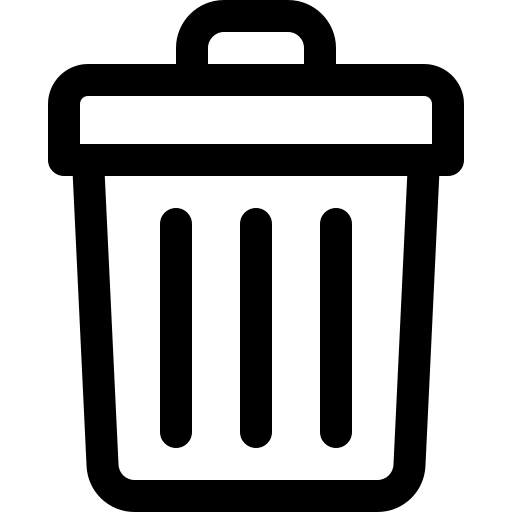
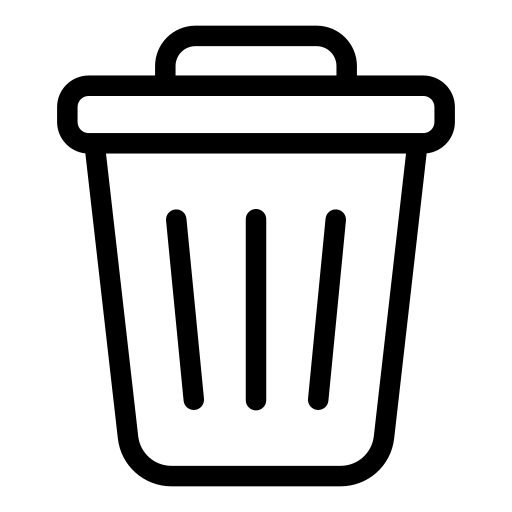
feat(frontend): add remove mod methods

diff --git a/frontend/src/views/DownloadsView.vue b/frontend/src/views/DownloadsView.vue
@@ -3,7 +3,10 @@ import {
 	DeleteSavedMod,
 	GetYamlConfig,
 	RemoveFromYamlConfig,
+	RemoveFromDownloads,
+	GetSavedMods
 } from "@wailsjs/go/functools/FuncService";
+import { RemoveAllMods } from "@wailsjs/go/filetools/FileService"
 import { ShowInfoMessage } from "@wailsjs/go/main/App";
 import { onMounted, ref } from "vue";
 import { getMinecraftDownloadFileName, uniqueBy } from "@/api/utils";
@@ -12,14 +15,19 @@ import ModDisk from "@/components/ModDepends/ModDisk.vue";
 import ModsList from "@/components/Mods/ModsList.vue";
 import View from "@/components/View/View.vue";
 import AppHeader from "@/layouts/AppHeader.vue";
+import TrashIcon from "@/assets/images/trash.png"
+import ImageButton from "@/components/Buttons/ImageButton.vue";
 import type { MinecraftMod, ModDependency } from "@/types";
 
 const savedMods = ref<MinecraftMod[]>([]);
 const depends = ref<ModDependency[]>([]);
 
+const savedModsOnDisk = ref<string[]>([]);
+
 const loadDownloadedMods = async () => {
 	try {
 		const mods = await GetYamlConfig("downloads");
+		savedModsOnDisk.value = await GetSavedMods();
 		savedMods.value = mods ?? [];
 
 		if (savedMods.value !== null) {
@@ -46,12 +54,34 @@ const removeFromDownloads = async (mod: MinecraftMod) => {
 	}
 };
 
+const removeAll = async () => {
+	try {
+		await RemoveFromDownloads();
+		await RemoveAllMods();
+		savedMods.value = [];
+		depends.value = [];
+		savedModsOnDisk.value = [];
+		await ShowInfoMessage("Успех", "Моды удалены");
+	} catch (err) {
+		console.log("Ошибка при очистке", err);
+	}
+}
+
+const onDeleteModOnDisk = async (modName: string) => {
+	savedModsOnDisk.value = savedModsOnDisk.value.filter((m) => m !== modName);
+	await DeleteSavedMod(modName);
+	await ShowInfoMessage("Успех", "Мод успешно удалён");
+};
+
 onMounted(loadDownloadedMods);
 </script>
 
 <template>
   <AppHeader />
   <View min-height="100vh">
+	<div class="filters">
+		<ImageButton :img="TrashIcon" border-radius="50%" @click="removeAll" title="Удалить всё"/>
+	</div>
     <div class="downloads-list">
       <ModsList
         v-if="savedMods.length > 0"
@@ -59,7 +89,7 @@ onMounted(loadDownloadedMods);
         :onDelete="removeFromDownloads"
       />
       <ModDependsList v-if="depends.length > 0" :depends="depends"/>
-	  <ModDisk/>
+	  <ModDisk :saved-mods="savedModsOnDisk" @delete="onDeleteModOnDisk"/>
     </div>
   </View>
 </template>
@@ -78,6 +108,20 @@ onMounted(loadDownloadedMods);
   font-size: 18px;
   color: white;
   padding: 10px;
+}
+
+.filters {
+  display: flex;
+  flex-direction: row;
+  justify-content: flex-end;
+  gap: 5px;
+
+  background-color: rgb(41, 48, 47);
+  border-radius: 30px;
+  padding: 10px;
+  -webkit-box-shadow: 5px 5px 5px -5px rgba(151, 223, 163, 0.6) inset;
+  -moz-box-shadow: 5px 5px 5px -5px rgba(151, 223, 163, 0.6) inset;
+  box-shadow: 5px 5px 5px -5px rgba(151, 223, 163, 0.6) inset;
 }
 
 </style>

diff --git a/frontend/src/components/ModDepends/ModDisk.vue b/frontend/src/components/ModDepends/ModDisk.vue
@@ -1,30 +1,12 @@
 <script setup lang="ts">
-import {
-	DeleteSavedMod,
-	GetSavedMods,
-} from "@wailsjs/go/functools/FuncService";
-import { ShowInfoMessage } from "@wailsjs/go/main/App";
-import { onMounted, ref } from "vue";
 import CrossIcon from "@/assets/images/close.png";
 import Image from "@/components/Image/Image.vue";
 
-const savedMods = ref<string[]>([]);
+defineProps<{
+    savedMods: string[];
+    onDelete: (mod: string) => void;
+}>();
 
-const onDelete = async (modName: string) => {
-	savedMods.value = savedMods.value.filter((m) => m !== modName);
-	await DeleteSavedMod(modName);
-	await ShowInfoMessage("Успех", "Мод успешно удалён");
-};
-
-const load = async () => {
-	try {
-		savedMods.value = await GetSavedMods();
-	} catch (err) {
-		console.log("Ошибка загрузки с диска", err);
-	}
-};
-
-onMounted(load);
 </script>
 
 <template>

diff --git a/frontend/wailsjs/go/functools/FuncService.js b/frontend/wailsjs/go/functools/FuncService.js
@@ -26,6 +26,10 @@ export function OpenModsFolder() {
   return window['go']['functools']['FuncService']['OpenModsFolder']();
 }
 
+export function RemoveFromDownloads() {
+  return window['go']['functools']['FuncService']['RemoveFromDownloads']();
+}
+
 export function RemoveFromYamlConfig(arg1, arg2) {
   return window['go']['functools']['FuncService']['RemoveFromYamlConfig'](arg1, arg2);
 }

diff --git a/frontend/wailsjs/go/functools/FuncService.d.ts b/frontend/wailsjs/go/functools/FuncService.d.ts
@@ -14,6 +14,8 @@ export function IsModExist(arg1:string):Promise<boolean>;
 
 export function OpenModsFolder():Promise<void>;
 
+export function RemoveFromDownloads():Promise<void>;
+
 export function RemoveFromYamlConfig(arg1:parser.MinecraftMod,arg2:string):Promise<void>;
 
 export function SaveYamlModConfig(arg1:parser.MinecraftMod,arg2:string):Promise<void>;

diff --git a/frontend/wailsjs/go/filetools/FileService.js b/frontend/wailsjs/go/filetools/FileService.js
@@ -9,3 +9,7 @@ export function DownloadFileToMinecraftMods(arg1, arg2) {
 export function DownloadsMods(arg1, arg2) {
   return window['go']['filetools']['FileService']['DownloadsMods'](arg1, arg2);
 }
+
+export function RemoveAllMods() {
+  return window['go']['filetools']['FileService']['RemoveAllMods']();
+}

diff --git a/frontend/wailsjs/go/filetools/FileService.d.ts b/frontend/wailsjs/go/filetools/FileService.d.ts
@@ -5,3 +5,5 @@ import {parser} from '../models';
 export function DownloadFileToMinecraftMods(arg1:string,arg2:string):Promise<void>;
 
 export function DownloadsMods(arg1:Array<string>,arg2:Array<parser.DownloadInfo>):Promise<void>;
+
+export function RemoveAllMods():Promise<void>;
